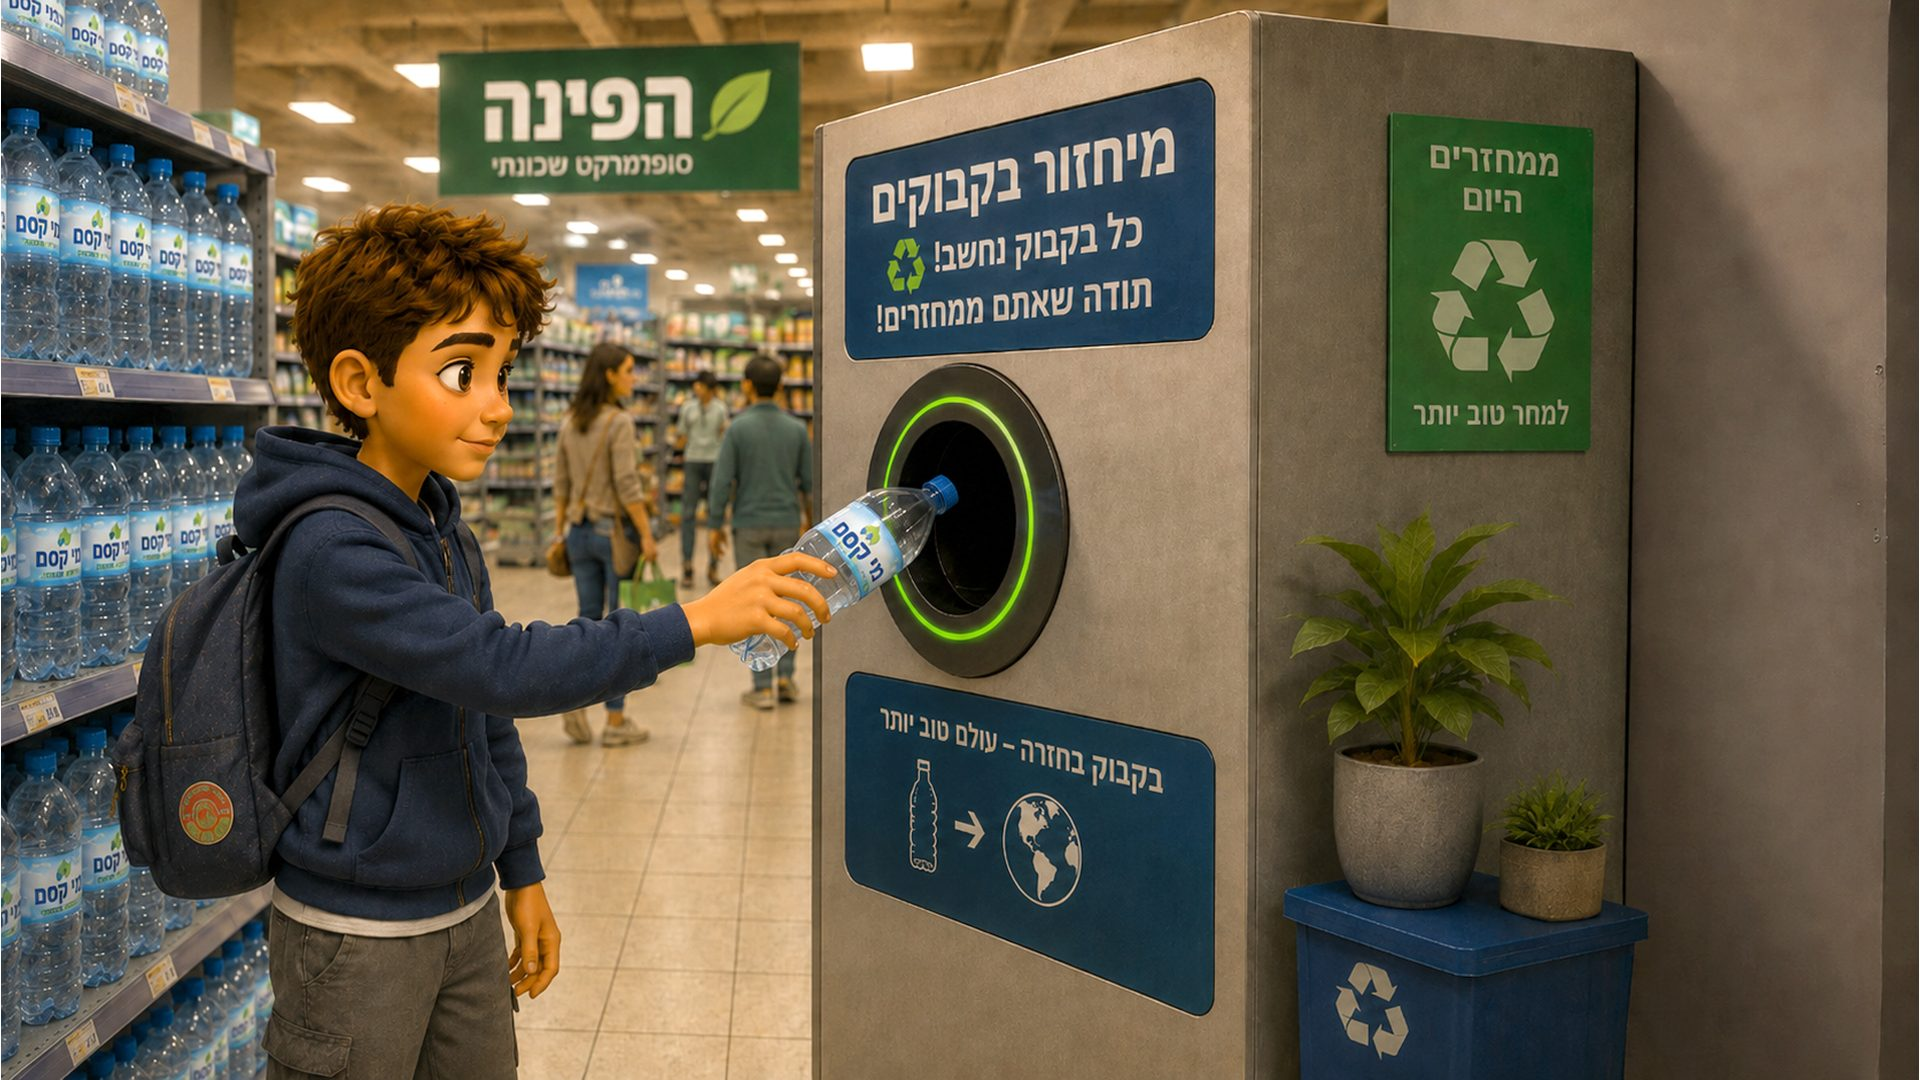
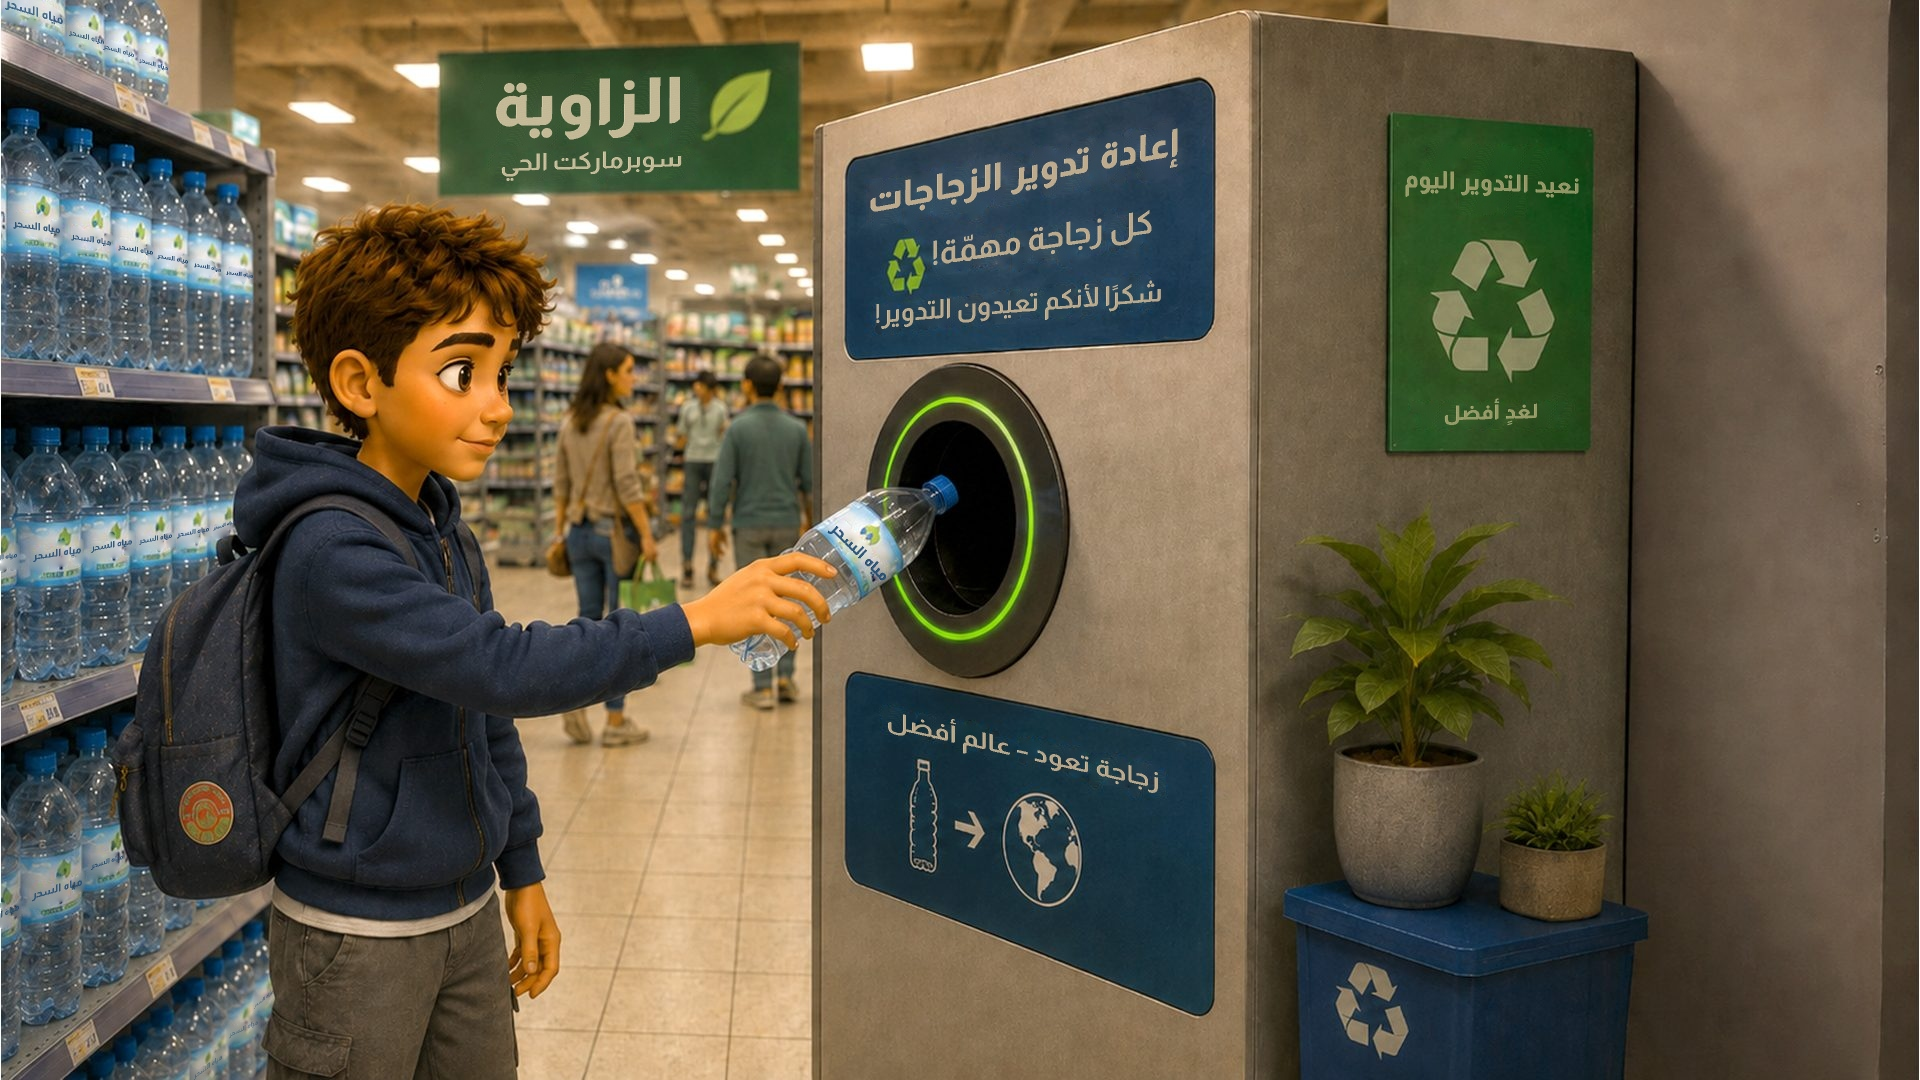
Six pictures in real Arabic (project, deposit value, dream, finish, street, garden backgrounds)

diff --git a/ASSET_LOCALIZATION.md b/ASSET_LOCALIZATION.md
@@ -4,6 +4,8 @@ Built 2026-11-11 for the Arabic build `STEM-Recycle-and-build-AR` (Hebrew source
 the skill's rule is to list it, with a proposed Arabic and a call on whether it blocks release.
 **All Arabic below is Claude's proposal (PENDING): the Arabic reviewer / translator confirms it before an artist uses it.**
 
+**Update 2026-11-24:** the six pictures `project-bg`, `deposit-value-bg`, `dream-bg`, `finish-bg`, `bg-street-dim` and `bg-garden-dim` now exist in real Arabic in `assets-ar/images/` (made by Yael, checked against the originals). Still Hebrew: the two video posters (`video-cart-poster.jpg`, `video-end-poster.jpg`) and the videos themselves.
+
 ## How the list was made
 
 - Contact sheets of all 31 files in `assets/images/`, looked at by eye (an automated text sweep reads live text only;
